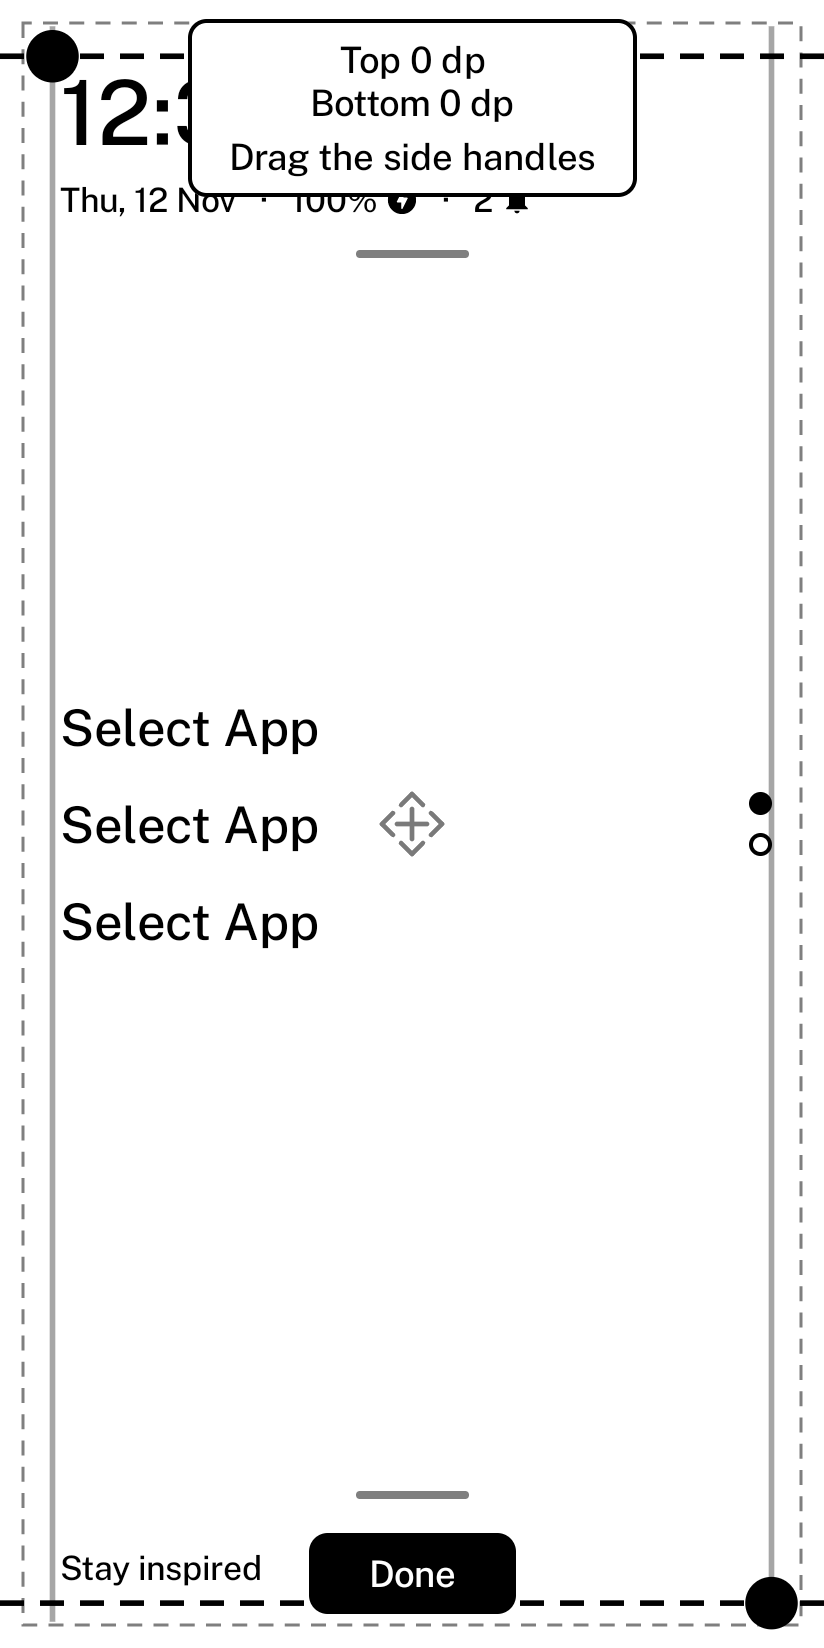
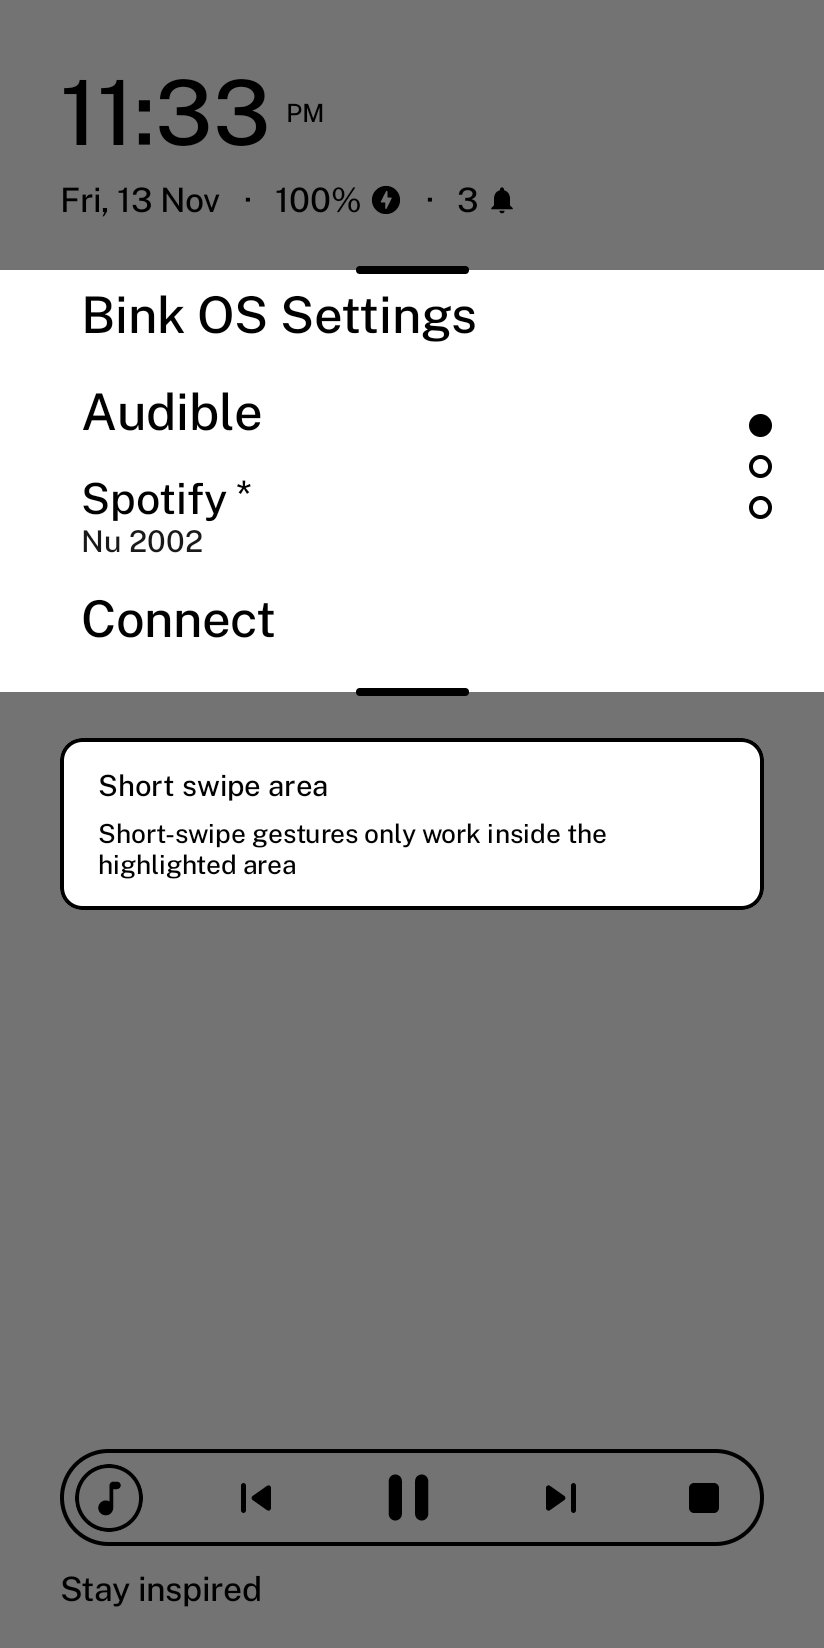
docs(readme): refresh the screenshots
Drop the stale language shot (the picker moved to the settings root), swap the
short-swipe editor for the new drag-handle version, and add the gestures panel.

diff --git a/README.md b/README.md
@@ -27,14 +27,18 @@
         <sub>Short swipe zone — short swipe gestures register only where you want them</sub>
       </td>
       <td align="center">
-        <img src="docs/img/bink/extras.png" height="300" alt="E-ink extras"><br>
-        <sub>Bigme refresh &amp; animation switches</sub>
+        <img src="docs/img/bink/gestures-panel.png" height="300" alt="Gestures quick panel"><br>
+        <sub>Gestures quick panel — Try out and customize the new short swipe area in edit mode </sub>
       </td>
     </tr>
     <tr>
-      <td colspan="2" align="center">
-        <img src="docs/img/bink/advanced-language.jpg" height="320" alt="Language picker"><br>
-        <sub>Language picker — 简体中文 supported</sub>
+      <td align="center">
+        <img src="docs/img/bink/extras.png" height="300" alt="E-ink extras"><br>
+        <sub>Bigme refresh &amp; animation switches</sub>
+      </td>
+      <td align="center">
+        <img src="docs/img/bink/settings-language.jpg" height="300" alt="Language picker"><br>
+        <sub>Settings — app language, 简体中文 included</sub>
       </td>
     </tr>
   </table>
@@ -50,7 +54,7 @@ Bink OS keeps inkOS's text-first home screen and rebuilds the parts that rub aga
 - **E-ink refresh control** — auto refresh, home-only refresh, configurable refresh delay.
 
 ### Gestures that don't fight the system
-- **Short swipe zone** — restrict page-turn swipes to a configurable vertical band, so the system's edge gestures (home / back) still work. Edit mode gives a live overlay with side handles and dashed bounds; the zone counts from 30 dp so it never hides under the status bar.
+- **Short swipe zone** — restrict page-turn swipes to a configurable vertical band, so the system's edge gestures (home / back) still work. Edit mode dims everything outside the band and gives you a drag handle on each boundary; the zone counts from 30 dp so it never hides under the status bar.
 - **Reverse long swipe closes** — every surface (app drawer, recents, letters, hub, simple tray, settings) closes with the long swipe opposite to the one that opened it. Detected on the initial pointer pass, so inner scrolling pages can't swallow the gesture.
 - Bind 4 swipe directions, double tap, and clock/date/quote taps to 15+ actions.
 
